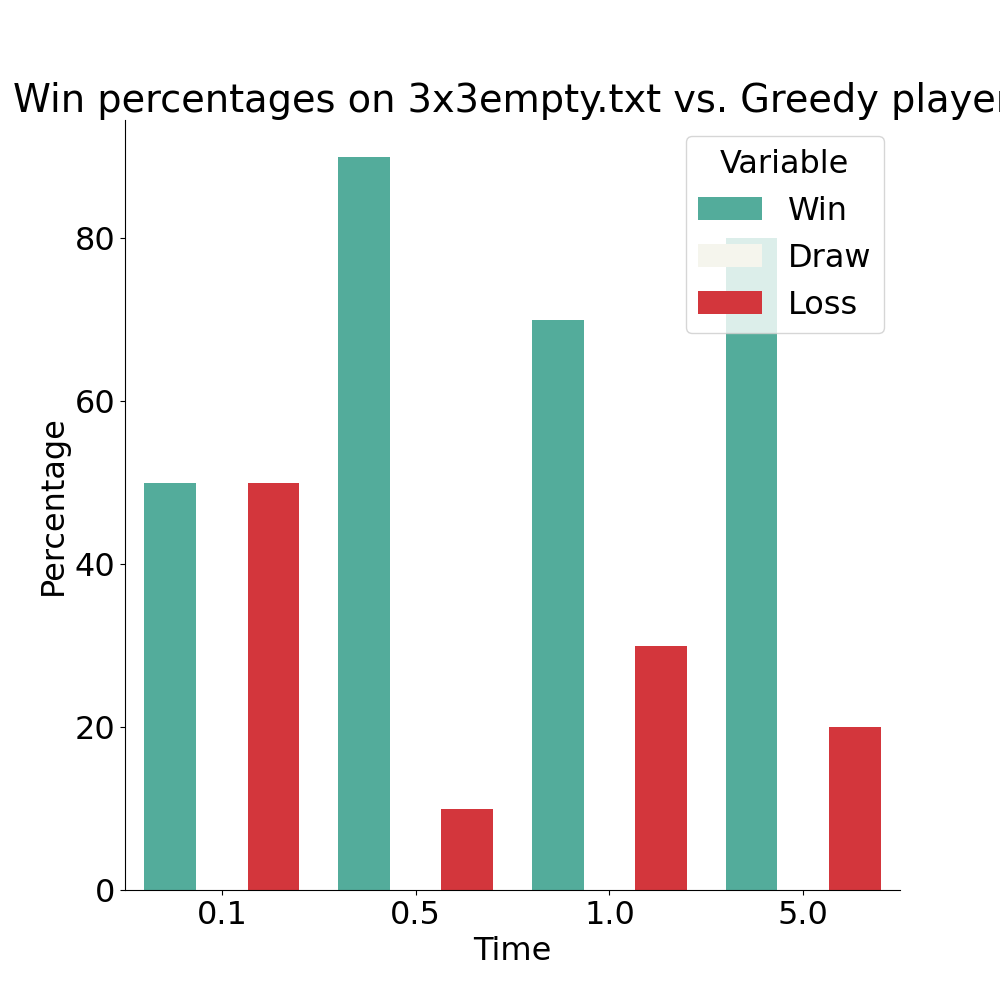
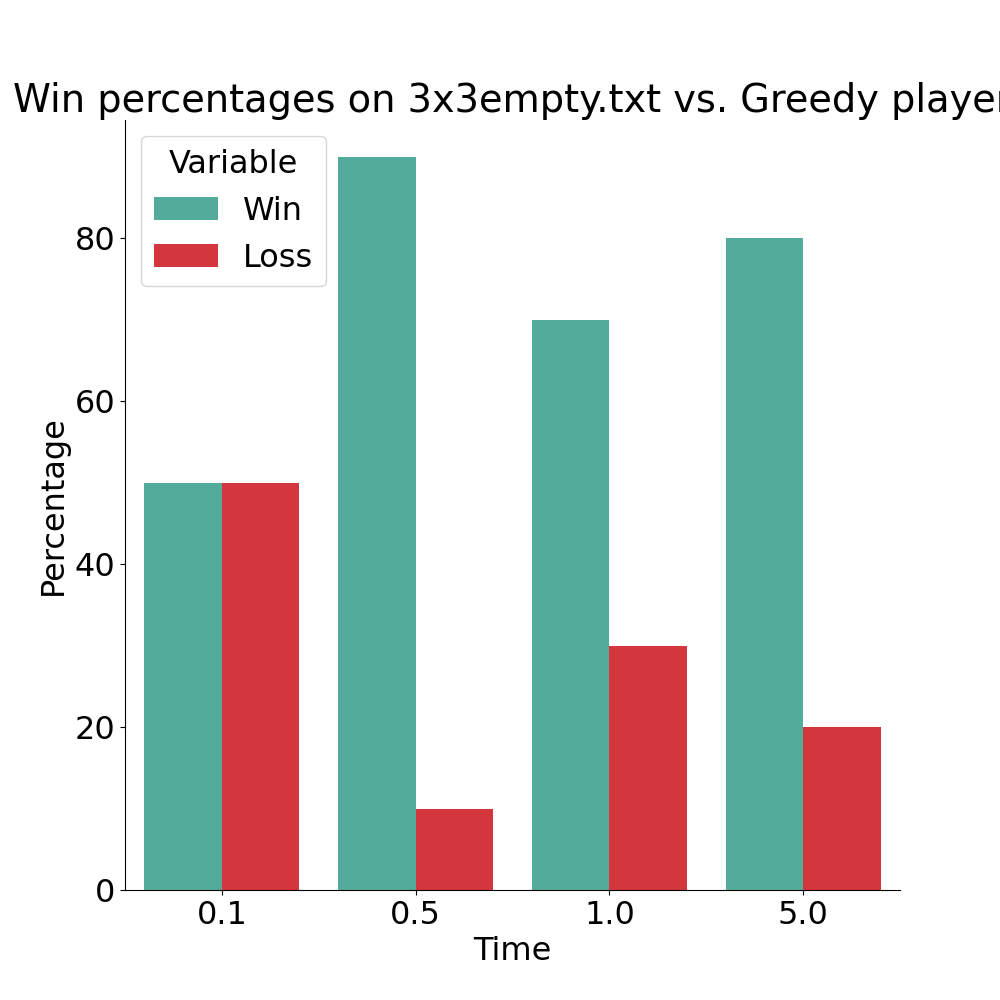
Cleanup
Slightly cleaned up your implementation and docstrings

diff --git a/competitive_sudoku/team36_A2/sudokuai.py b/competitive_sudoku/team36_A2/sudokuai.py
@@ -37,7 +37,7 @@ class SudokuAI(competitive_sudoku.sudokuai.SudokuAI):
 
             return not_taboo
 
-        def get_values(i,j):
+        def get_values(i, j):
             """
             Determines for a square what kind of values can still be filled in.
 
@@ -49,8 +49,19 @@ class SudokuAI(competitive_sudoku.sudokuai.SudokuAI):
 
             return [value for value in range(1, N + 1) if value not in values]
 
-
         def one_remaining_square(i, j, value, game_state: GameState):
+            """Returns a bool indicating if the move completes at least one row/column/box
+
+                Parameters:
+                    i (int): Row coordinate of the square
+                    j (int): Column coordinate of the square
+                    value (int): Value of the move
+                    game_state: Current state of the game
+
+                Returns:
+                    boolean (bool): Returns a bool indicating if the move completes at least one row/column/box
+
+            """
             complete_row = len(get_row(i, game_state)) == game_state.board.N - 1
             complete_column = len(get_column(j, game_state)) == game_state.board.N - 1
             complete_box = len(get_block(i, j, game_state)) == game_state.board.N - 1
@@ -65,10 +76,11 @@ class SudokuAI(competitive_sudoku.sudokuai.SudokuAI):
             for i in range(N):
                 for j in range(N):
                     for value in get_values(i, j):
-                        if possible(i, j, value) and one_remaining_square(i, j, value, game_state):
-                            return [Move(i, j, value)]
                         if possible(i, j, value):
-                            moves.append(Move(i, j, value))
+                            if one_remaining_square(i, j, value, game_state):
+                                return [Move(i, j, value)]
+                            else:
+                                moves.append(Move(i, j, value))
             return moves
 
         def minimax(game_state, depth, alpha, beta, isMaximisingPlayer, current_score, empty_squares):

diff --git a/competitive_sudoku/team36_A1/sudokuai.py b/competitive_sudoku/team36_A1/sudokuai.py
@@ -17,7 +17,6 @@ class SudokuAI(competitive_sudoku.sudokuai.SudokuAI):
     def _init_(self):
         super()._init_()
 
-
     # N.B. This is a very naive implementation.
     def compute_best_move(self, game_state: GameState) -> None:
         N = game_state.board.N
@@ -168,15 +167,18 @@ class SudokuAI(competitive_sudoku.sudokuai.SudokuAI):
 
         # Propose a random move first in case there is no time to implement minimax.
         move = random.choice(all_moves)
+
         self.propose_move(move)
 
-        # Start with depth 1 and then increase depth. For every depth, call minimax and propose a move. The more time we have
+        # Start with depth 1 and then increase depth.
+        # For every depth, call minimax and propose a move. The more time we have
         # the most accurate the move that the minimax returns
         for i in range(1, MAX_DEPTH):
             empty_squares = set([(i, j) for i in range(N) for j in range(N) if game_state.board.get(i, j) == SudokuBoard.empty])
             best_move, eval = minimax(game_state, i, float('-inf'), float('inf'), True, 0, empty_squares)
 
             self.propose_move(best_move)
+
 
 def score_move(move: Move, game_state: GameState):
     """
@@ -229,6 +231,7 @@ def get_surrounding_values(i, j, game_state: GameState):
 
 
     return values
+
 
 def get_column(j, game_state):
     """

diff --git a/competitive_sudoku/plotting.py b/competitive_sudoku/plotting.py
@@ -17,7 +17,6 @@ random3x3empty = pd.DataFrame({
 greedy3x3empty = pd.DataFrame({
     'Time': [0.1, 0.5, 1, 5],
     'Win': [50, 90, 70, 80],
-    'Draw': [0, 0, 0, 0],
     'Loss': [50, 10, 30, 20]
 })
 
@@ -40,7 +39,8 @@ tidy = greedy3x3empty.melt(id_vars='Time').rename(columns=str.title)
 print(tidy)
 
 sns.barplot(x='Time', y='Value', hue='Variable',
-            data=tidy, ax=ax1, palette=['#44BBA4', '#F6F7EB', '#ED1C24'])
+            #'#F6F7EB',
+            data=tidy, ax=ax1, palette=['#44BBA4', '#ED1C24'])
 sns.despine(fig)
 plt.xlabel('Time')
 plt.ylabel('Percentage')
